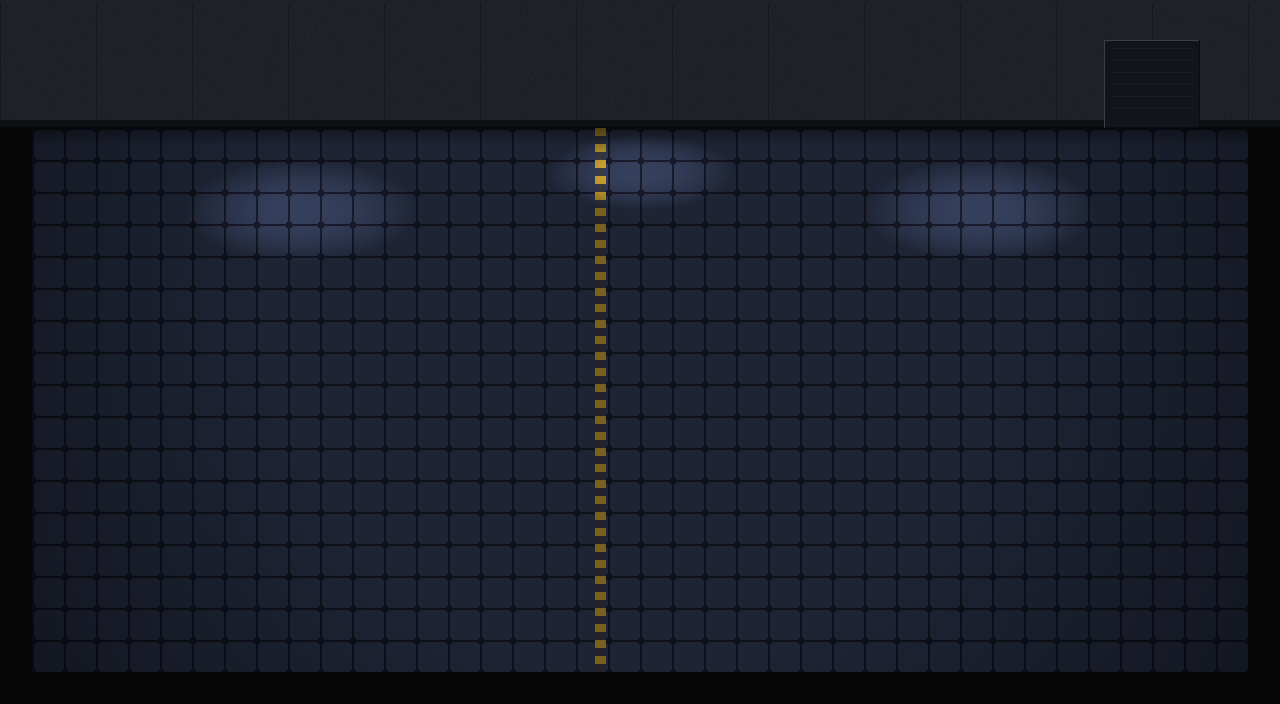
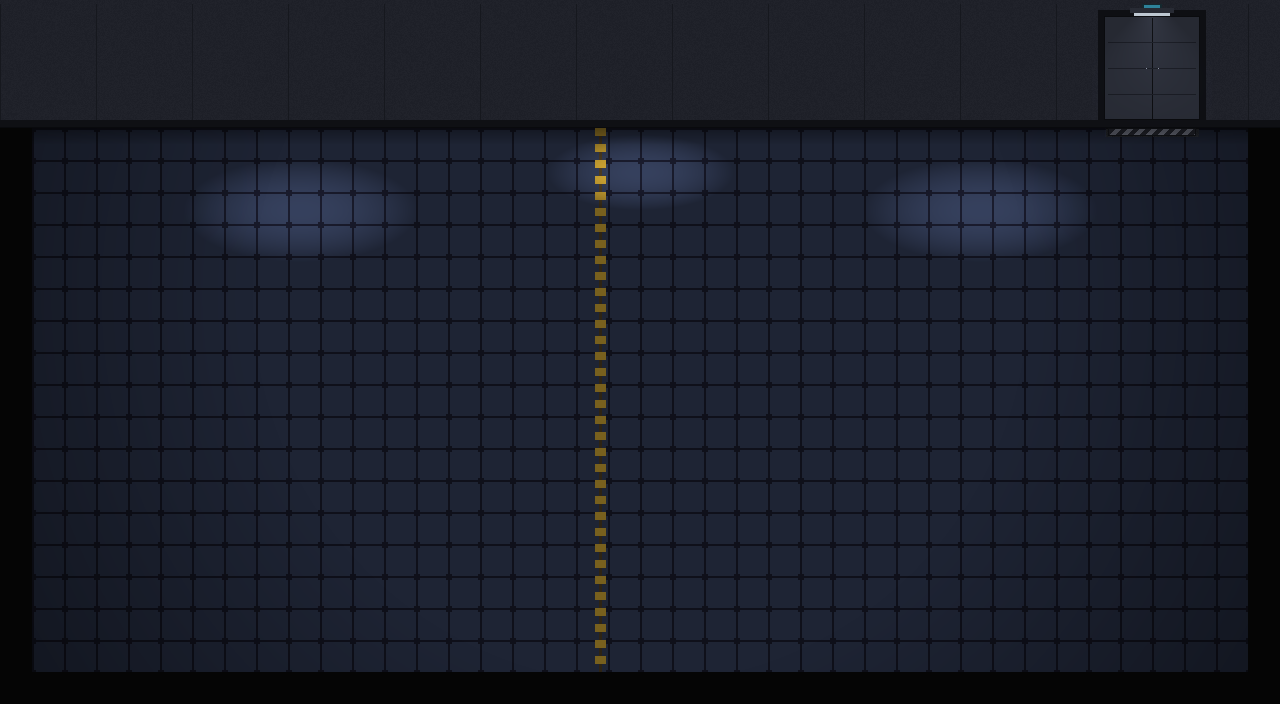
Espolio de boss, props de pack nas salas finais e a porta padrao no treinamento
Chip de cache como espolio do boss de capitulo. BattleScene ganha
config.reward — o id do item que a vitoria entrega. Default "cache", entao
o ENIAC larga um chip; a dupla de sentinelas passa reward: null, porque e
arena de treino e nao guardiao de andar. Qualquer boss futuro herda o
comportamento so por usar o config padrao.

dropReward poe o item no inventario e ANUNCIA na tela (+ CACHE) antes de
voltar para a sala: item que o jogador nao ve cair e item que ele nunca
usa. O Cosmo tambem comenta no dialogo de vitoria, dizendo que so o
guardiao de cada andar carrega um — a escassez precisa parecer regra, nao
bug. O balanceamento e esse: e a peca mais forte do jogo (+1 reprogramacao
por embate), entao o limite e quantos existem, nao o que ela faz.

Ressalva anotada no AGENTS.md: o drop dispara a cada vitoria, e o save e
o do Resident Evil — carregar um save anterior ao boss e vencer de novo
rende outro chip. Fechar isso exige marcar o boss no perfil monotonico (o
mesmo lugar das tentativas, que o load nunca reverte), nao no save; com um
boss por capitulo, nao paga a complexidade ainda.

Props das duas ultimas salas. Seguranca e corredor eram as unicas que
ainda usavam os caixotes e barris procedurais anteriores aos packs.
Trocados pelos props do Post Apoc, os mesmos do porao: na seguranca,
prateleira, armarios e placa de perigo na parede da esquerda, cilindros de
gas ladeando a porta e bancada/barris/caixotes pelo chao, com o centro
[…]

Changed region(s): [[0.8438, 0.0, 0.9375, 0.1875]]

diff --git a/client/scenes/chapter1/BattleScene.js b/client/scenes/chapter1/BattleScene.js
@@ -4,6 +4,8 @@ import BattleMenu from "../../ui/BattleMenu";
 import BlockProgrammingConsole from "../../ui/BlockProgrammingConsole";
 import projetilUrl from "../../assets/sprites/projetil/projetil.png";
 import { MAX_HP, getHp, setHp, fullHeal } from "../../state/vitals";
+import { addItem } from "../../state/inventory";
+import { itemDef } from "../../data/items";
 import fxLightningUrl from "../../assets/sprites/effects/fx_lightning.png";
 import fxWarpUrl from "../../assets/sprites/effects/fx_warp.png";
 import fxExplosionUrl from "../../assets/sprites/effects/fx_explosion.png";
@@ -168,6 +170,12 @@ const DEFAULT_CONFIG = {
     projectileSpeed: PROJECTILE_SPEED,
     bossTint: null,
     analysisLine: "ENIAC — UNIDADE DE CUSTÓDIA, 1946.",
+    // Espólio da vitória (id do catálogo de itens) ou null. Só o BOSS FINAL de
+    // cada capítulo larga alguma coisa: o chip de CACHE, que libera uma
+    // reprogramação extra por embate. É a peça mais forte do jogo, então a
+    // escassez é o balanceamento — um por capítulo, e ponto. Arena de treino e
+    // demais embates passam `reward: null`.
+    reward: "cache",
     // Padrão do bullet hell: "rain" (chuva vertical, ENIAC) ou "sweep"
     // (varredura lateral em fileiras com brecha, sentinela).
     dodgePattern: "rain",
@@ -1288,9 +1296,40 @@ export default class BattleScene extends Phaser.Scene {
         this.cameras.main.shake(600, 0.006);
         this.setBattleStatus(`> ${this.config.name} OFFLINE`, "#51e36b");
 
-        this.time.delayedCall(1800, () => {
+        const dropped = this.dropReward();
+
+        this.time.delayedCall(dropped ? 2800 : 1800, () => {
             this.scene.stop();
             this.scene.resume(this.config.returnScene, { victory: true });
         });
+    }
+
+    // Espólio do boss: entra no inventário e é ANUNCIADO na tela — item que o
+    // jogador não vê cair é item que ele nunca usa. Devolve se houve drop, para
+    // a vitória segurar mais um pouco antes de voltar para a sala.
+    dropReward() {
+        const item = itemDef(this.config.reward);
+        if (!item) {
+            return false;
+        }
+
+        addItem(item.id, 1);
+
+        const label = this.add.text(WIDTH / 2, HEIGHT / 2, `+ ${item.name.toUpperCase()}`, {
+            fontFamily: "VCR",
+            fontSize: "30px",
+            color: "#ffb347"
+        }).setOrigin(0.5).setDepth(1000).setAlpha(0);
+
+        this.tweens.add({
+            targets: label,
+            alpha: 1,
+            y: HEIGHT / 2 - 26,
+            delay: 900,
+            duration: 500,
+            ease: "Sine.easeOut"
+        });
+
+        return true;
     }
 }

diff --git a/client/scenes/chapter1/SalaSegurancaScene.js b/client/scenes/chapter1/SalaSegurancaScene.js
@@ -23,6 +23,8 @@ const ENTRY_SCRIPT = [
 
 const VICTORY_SCRIPT = [
     { speaker: "ENIAC", color: ENIAC_COLOR, text: "CUSTÓDIA... ENCERRADA... ......" },
+    { speaker: "COSMO", text: "Puxei um chip de cache do núcleo dele. Guarde bem: com ele você reprograma uma vez a mais dentro de um embate." },
+    { speaker: "COSMO", text: "Só o guardião de cada andar carrega um desses. Não conte com o segundo tão cedo." },
     { speaker: "COSMO", text: "Caminho livre. Espera... com o ENIAC fora, o bloqueio de sinal caiu — estou recebendo algo—" }
 ];
 

diff --git a/client/scenes/chapter1/SentinelaScene.js b/client/scenes/chapter1/SentinelaScene.js
@@ -39,6 +39,7 @@ const BATTLE_CONFIG = {
     projectileInterval: 300,
     projectileSpeed: { min: 150, max: 210 },
     analysisLine: "DUPLA DE SENTINELAS — UNIDADES DE TREINO DA ELYSIUM.",
+    reward: null,                    // chip de cache é espólio de BOSS FINAL; aqui é treino.
     combatants: [
         { key: "sentTeal", walkUrl: tealWalk, disabledUrl: tealDisabled, x: WIDTH / 2 - 95, y: 150, scale: 2.6 },
         { key: "sentViolet", walkUrl: violetWalk, disabledUrl: violetDisabled, x: WIDTH / 2 + 95, y: 150, scale: 2.6 }

diff --git a/client/data/items.js b/client/data/items.js
@@ -94,7 +94,7 @@ export const ITEMS = {
         name: "Cache",
         icon: "cache",
         category: "reprogramacao",
-        description: "Memória de acesso rápido que alivia a sobrecarga: libera MAIS UMA reprogramação neste embate.",
+        description: "Memória de acesso rápido que alivia a sobrecarga: libera MAIS UMA reprogramação neste embate. Só cai do guardião de cada andar.",
         battleEffect: "maisUmaReprogramacao",
         usableInBattle: true,
         usableInRoom: false,

diff --git a/tools/treinamento_bg.py b/tools/treinamento_bg.py
@@ -7,6 +7,13 @@ piso de tile do pack e as marcações de campo de tiro.
 A parede usa a mesma fórmula das outras salas (ver tools/porao_parede.lua) e o
 piso o mesmo tile e tom (ver tools/piso_tile.py), para a sala não destoar.
 
+A PORTA não é desenhada aqui: ela é CARIMBADA a partir de controle_bg.png. A
+porta padrão do capítulo (batente recuado, duas folhas, placa acesa e o tapete
+listrado no piso) foi desenhada no Aseprite e não tem gerador versionado, então
+copiar a arte existente é o único jeito de a sala não ficar com uma porta
+diferente das outras — foi exatamente o que aconteceu na primeira versão, que
+desenhava um portão de ripas por conta própria.
+
 Uso (o caminho do pack é local de cada dev):
     python tools/treinamento_bg.py --tiles "<pack>/tileset x2.png"
 """
@@ -33,8 +40,22 @@ SEED = 21
 POOLS = [(300, 210, 118, 52), (640, 172, 94, 38), (980, 210, 118, 52)]
 
 # Porta no fundo, à direita — combina com o fluxo da sala (o jogador entra pela
-# esquerda, atravessa a barreira e sai lá).
-DOOR = (1104, 40, 96, 88)
+# esquerda, atravessa a barreira e sai lá). DOOR_X é o centro, e tem que bater
+# com o `door.x` da TreinamentoScene.
+DOOR_X = 1152
+
+# Recorte da porta padrão em controle_bg.png. A parede (0..WALL_H) é copiada
+# inteira: os dois fundos têm a mesma fórmula e o mesmo tom, então não há
+# emenda visível. O tapete listrado vem à parte porque cai no PISO, que é
+# diferente em cada sala.
+DOOR_SRC_X = 640                       # centro da porta no fundo de origem
+DOOR_PLATE = (612, 0, 668, 10)         # placa acesa e o letreiro, acima do batente
+DOOR_BAND = (580, 10, 700, WALL_H)     # batente, folhas e a parede em volta
+DOOR_MAT = (593, 128, 687, 137)        # tapete listrado, já no piso
+
+# A faixa de cima é estreita de propósito: na sala de origem passa uma linha de
+# painel em x=672, e ela cairia FORA da grade de 96px daqui — um risco vertical
+# solto ao lado da porta. Recortando só a placa, a grade da sala continua a dela.
 
 # Faixas de perigo pintadas no chão, marcando a linha da barreira de laser
 # (LASER_X = 600 na cena) e a zona de tiro.
@@ -48,6 +69,10 @@ def clamp(v, lo=0, hi=255):
 def main():
     ap = argparse.ArgumentParser()
     ap.add_argument("--tiles", required=True)
+    ap.add_argument("--porta", default=os.path.join(
+        os.path.dirname(os.path.abspath(__file__)),
+        "..", "client", "assets", "images", "controle", "controle_bg.png"),
+        help="fundo de onde a porta padrão é copiada")
     ap.add_argument("--out", default=os.path.join(
         os.path.dirname(os.path.abspath(__file__)),
         "..", "client", "assets", "images", "treinamento", "treinamento_bg.png"))
@@ -95,22 +120,7 @@ def main():
                 if 0 <= y + j < fy + fh:
                     px[LASER_X + dx, y + j] = (120, 96, 30, 255)
 
-    # 4) Porta desenhada na parede.
-    dx0, dy0, dw, dh = DOOR
-    for y in range(dy0, dy0 + dh):
-        for x in range(dx0, dx0 + dw):
-            px[x, y] = (18, 20, 26, 255)
-    for x in range(dx0, dx0 + dw):
-        px[x, dy0] = (58, 62, 76, 255)
-        px[x, dy0 + dh - 1] = (10, 11, 14, 255)
-    for y in range(dy0, dy0 + dh):
-        px[dx0, y] = (58, 62, 76, 255)
-        px[dx0 + dw - 1, y] = (10, 11, 14, 255)
-    for y in range(dy0 + 8, dy0 + dh - 8, 12):      # ripas da porta
-        for x in range(dx0 + 6, dx0 + dw - 6):
-            px[x, y] = (26, 28, 36, 255)
-
-    # 5) Luz: sombra da parede, poças das luminárias e vinheta.
+    # 4) Luz: sombra da parede, poças das luminárias e vinheta.
     def light(x, y, f):
         if not (fx <= x < fx + fw and fy <= y < fy + fh):
             return
@@ -135,6 +145,22 @@ def main():
         for x in range(fx, fx + fw):
             d = math.hypot(x - vcx, y - vcy) / maxd
             light(x, y, 1 - 0.35 * max(0.0, min(1.0, (d - 0.55) / 0.45)))
+
+    # 5) Porta padrão, carimbada de controle_bg.png. Vai por ÚLTIMO porque o
+    # recorte já traz a própria iluminação: passar a vinheta por cima
+    # escureceria o tapete e denunciaria o remendo.
+    porta = Image.open(args.porta).convert("RGB")
+    pp = porta.load()
+
+    def stamp(rect):
+        x0, y0, x1, y1 = rect
+        for y in range(y0, y1):
+            for x in range(x0, x1):
+                px[x - DOOR_SRC_X + DOOR_X, y] = pp[x, y] + (255,)
+
+    stamp(DOOR_PLATE)
+    stamp(DOOR_BAND)
+    stamp(DOOR_MAT)
 
     os.makedirs(os.path.dirname(os.path.abspath(args.out)), exist_ok=True)
     im.save(args.out)

diff --git a/AGENTS.md b/AGENTS.md
@@ -22,7 +22,7 @@ Monorepo com dois pacotes independentes (não há `package.json` na raiz):
   - `IntroScene` (`"intro-scene"`) — cena de abertura no porão; diálogo com efeito máquina de escrever; a androide acorda e segue para o capítulo 1.
   - `SpritTestScene` (`"sprit-test-scene"`) — sala de teste jogável (WASD; ESC volta ao menu), usada como sandbox de dev.
   - `PauseMenuScene` (`"pause-menu"`) — overlay de ESC (continuar / configurações / sair, com aviso de progresso não salvo). Aberta pelo `BaseRoomScene` via `launch` + `pause`; só enquanto o jogador anda (`canPause()` barra durante diálogo, console e transição).
-  - `scenes/chapter1/` — capítulo 1 (variáveis; porão → saguão): `PoraoScene` (int), `SalaArquivosScene` (`"cap1-arquivos"` — tematizada como SALA DE SERVIDORES (props via `tools/servidores.py`, feixe de laser do pack); é o TUTORIAL da reprogramação remota `[R]`: uma unidade de segurança (biped parado, guardião, só faz o slam) fica atrás de uma barreira de laser IMPASSÁVEL (parede sólida só contra a Artemis, do teto ao piso); o jogador não alcança para golpear, então usa `[R]` para desviar das bolas de energia e reprogramar à distância; ao ser desligado, o robô revela o nome dela ("Artemis... você nos traiu"), a barreira cai e a porta abre — é também onde entra a ideia de variável (`nome = "Artemis"`)), `SalaControleScene` (string/float), `TreinamentoScene` (`"cap1-treinamento"` — barreira de laser cíclica (painel `lasers = false`) + INIMIGOS; porta abre com a barreira desligada e todos os robôs desativados; cenário procedural até a arte ficar pronta), `SentinelaScene` (`"cap1-sentinela"` — arena pré-boss: uma DUPLA de sentinelas (recolor do biped por rotação de matiz — teal + violeta, não-vermelhas; ver `tools/biped_recolor.py`) que lutam JUNTAS numa só `BattleScene` (config `combatants`, HP combinado → mais difícil); o turno delas cicla 3 padrões de bullet hell (`spiral`/`splitBounce`/`touhouCross`); reaproveita o mapa da sala de arquivos como cenário), `SalaSegurancaScene` (antessala do boss: `[E]` no núcleo abre a batalha), `BattleScene` (`"cap1-batalha"` — combate por turnos estilo Undertale: ATACAR causa dano igual à variável `forca`, REPROGRAMAR cria/dobra a `forca` no console de blocos (limitado a `config.maxReprograms` — default 2 no cap. 1, cresce nos próximos — por embate: o núcleo da Artemis sobrecarrega e trava, evitando o snowball da força dobrando; `[ESC]` antes de montar a instrução volta ao menu de ações **sem** gastar o turno), ANALISAR descreve o boss; o turno do inimigo é bullet hell na caixa com WASD (dominante) e, OCASIONALMENTE, uma sequência de defesa em blocos com tempo limite (`DEFENSE_CHANCE`; nunca no 1º turno nem duas seguidas); aberta via `scene.launch("cap1-batalha", { config })` + `pause` — o `config` parametriza nome, `maxHp`, `returnScene`, defesa on/off, projéteis e o(s) padrão(ões) de bullet hell (`dodgePattern` único ou `dodgePatterns[]` que CICLA a cada turno: `"rain"` chuva vertical do ENIAC, `"sweep"` varredura lateral com brecha, `"spiral"` orbe central girando e cuspindo balas, `"splitBounce"` bolas grandes que quicam e se dividem a cada quicada, `"touhouCross"` cruz de balas em volta da alma com aberturas nas diagonais, `"lightning"` colunas telegrafadas que caem como relâmpagos (zona de dano vertical, desvio horizontal), `"warpMines"` portais sci-fi que se abrem e EXPLODEM em zonas de dano circulares, `"nova"` o núcleo carrega e dispara um anel de balas com uma abertura giratória (linha-guia verde marca o corredor seguro) — os três últimos usam os efeitos do Super Pixel Effects Gigapack (ver docs/ASSETS.md) e o ENIAC (boss final) CICLA `["rain","lightning","warpMines","nova"]`; `"lightning"`/`"warpMines"` são ZONAS de perigo (não projéteis físicos): telegrafo → `hazards[]` ativo por um instante, checado em `updateHazards`); `config.combatants[]` (`{ key, walkUrl, disabledUrl, x, y, scale }`) troca o boss único do ENIAC por VÁRIOS sprites no topo com HP combinado (a dupla de sentinelas) — e devolve com `scene.resume(returnScene, { victory: true })`), `ReprogramScene` (`"cap1-reprograma"` — batalha de reprogramação de um inimigo: telinha "HACKING EFETUADO", depois o robô revida com um ataque de ESQUIVA estilo Undertale (`DodgeBox`, WASD; cada acerto tira HP), então o jogador monta com tempo a instrução que o desliga, erro/tempo esgotado = nova esquiva; `config.stages` (default 1) define quantas CAMADAS o robô aguenta — cada acerto quebra uma (com barra de integridade do núcleo; o HP do jogador é o GLOBAL do `state/vitals`, sem escala por estágio) e só a última desativa (o biped-guardião da `SalaArquivosScene` usa 3); aberta pelo modo `[R]` da sala via `launch` + `pause`, devolve com `scene.resume(returnScene, { enemyReprogram: { index, disabled } })`), `CorredorScene` (transmissão da Lua) e `SaguaoScene` (cutscene final). Todas estendem `BaseRoomScene`, exceto a `SaguaoScene`, a `BattleScene` e a `ReprogramScene`. Chaves de cena: `"cap1-*"`.
+  - `scenes/chapter1/` — capítulo 1 (variáveis; porão → saguão): `PoraoScene` (int), `SalaArquivosScene` (`"cap1-arquivos"` — tematizada como SALA DE SERVIDORES (props via `tools/servidores.py`, feixe de laser do pack); é o TUTORIAL da reprogramação remota `[R]`: uma unidade de segurança (biped parado, guardião, só faz o slam) fica atrás de uma barreira de laser IMPASSÁVEL (parede sólida só contra a Artemis, do teto ao piso); o jogador não alcança para golpear, então usa `[R]` para desviar das bolas de energia e reprogramar à distância; ao ser desligado, o robô revela o nome dela ("Artemis... você nos traiu"), a barreira cai e a porta abre — é também onde entra a ideia de variável (`nome = "Artemis"`)), `SalaControleScene` (string/float), `TreinamentoScene` (`"cap1-treinamento"` — barreira de laser cíclica (painel `lasers = false`) + INIMIGOS; porta abre com a barreira desligada e todos os robôs desativados; cenário por `tools/treinamento_bg.py` + props no Tiled), `SentinelaScene` (`"cap1-sentinela"` — arena pré-boss: uma DUPLA de sentinelas (recolor do biped por rotação de matiz — teal + violeta, não-vermelhas; ver `tools/biped_recolor.py`) que lutam JUNTAS numa só `BattleScene` (config `combatants`, HP combinado → mais difícil); o turno delas cicla 3 padrões de bullet hell (`spiral`/`splitBounce`/`touhouCross`); reaproveita o mapa da sala de arquivos como cenário), `SalaSegurancaScene` (antessala do boss: `[E]` no núcleo abre a batalha), `BattleScene` (`"cap1-batalha"` — combate por turnos estilo Undertale: ATACAR causa dano igual à variável `forca`, REPROGRAMAR cria/dobra a `forca` no console de blocos (limitado a `config.maxReprograms` — default 2 no cap. 1, cresce nos próximos — por embate: o núcleo da Artemis sobrecarrega e trava, evitando o snowball da força dobrando; `[ESC]` antes de montar a instrução volta ao menu de ações **sem** gastar o turno), ANALISAR descreve o boss; o turno do inimigo é bullet hell na caixa com WASD (dominante) e, OCASIONALMENTE, uma sequência de defesa em blocos com tempo limite (`DEFENSE_CHANCE`; nunca no 1º turno nem duas seguidas); aberta via `scene.launch("cap1-batalha", { config })` + `pause` — o `config` parametriza nome, `maxHp`, `returnScene`, defesa on/off, projéteis e o(s) padrão(ões) de bullet hell (`dodgePattern` único ou `dodgePatterns[]` que CICLA a cada turno: `"rain"` chuva vertical do ENIAC, `"sweep"` varredura lateral com brecha, `"spiral"` orbe central girando e cuspindo balas, `"splitBounce"` bolas grandes que quicam e se dividem a cada quicada, `"touhouCross"` cruz de balas em volta da alma com aberturas nas diagonais, `"lightning"` colunas telegrafadas que caem como relâmpagos (zona de dano vertical, desvio horizontal), `"warpMines"` portais sci-fi que se abrem e EXPLODEM em zonas de dano circulares, `"nova"` o núcleo carrega e dispara um anel de balas com uma abertura giratória (linha-guia verde marca o corredor seguro) — os três últimos usam os efeitos do Super Pixel Effects Gigapack (ver docs/ASSETS.md) e o ENIAC (boss final) CICLA `["rain","lightning","warpMines","nova"]`; `"lightning"`/`"warpMines"` são ZONAS de perigo (não projéteis físicos): telegrafo → `hazards[]` ativo por um instante, checado em `updateHazards`); `config.combatants[]` (`{ key, walkUrl, disabledUrl, x, y, scale }`) troca o boss único do ENIAC por VÁRIOS sprites no topo com HP combinado (a dupla de sentinelas); `config.reward` é o ESPÓLIO da vitória (id do catálogo de itens, default `"cache"`) — ver "Espólio de boss" abaixo — e devolve com `scene.resume(returnScene, { victory: true })`), `ReprogramScene` (`"cap1-reprograma"` — batalha de reprogramação de um inimigo: telinha "HACKING EFETUADO", depois o robô revida com um ataque de ESQUIVA estilo Undertale (`DodgeBox`, WASD; cada acerto tira HP), então o jogador monta com tempo a instrução que o desliga, erro/tempo esgotado = nova esquiva; `config.stages` (default 1) define quantas CAMADAS o robô aguenta — cada acerto quebra uma (com barra de integridade do núcleo; o HP do jogador é o GLOBAL do `state/vitals`, sem escala por estágio) e só a última desativa (o biped-guardião da `SalaArquivosScene` usa 3); aberta pelo modo `[R]` da sala via `launch` + `pause`, devolve com `scene.resume(returnScene, { enemyReprogram: { index, disabled } })`), `CorredorScene` (transmissão da Lua) e `SaguaoScene` (cutscene final). Todas estendem `BaseRoomScene`, exceto a `SaguaoScene`, a `BattleScene` e a `ReprogramScene`. Chaves de cena: `"cap1-*"`.
 - `ui/` — consoles de puzzle e `DialogueBox` (diálogo reutilizável com máquina de escrever):
   - `ProgrammingConsole` — puzzle de variável por **texto**: o jogador digita `nome = valor`; valida nome, tipo e valor (int/float/string/boolean).
   - `BlockProgrammingConsole` — mesmo puzzle em **blocos**: o jogador arrasta blocos para encaixes em sequência (`[variável] [=] [valor]`), no estilo dos cards do menu (`GameScene`). Deriva a solução do mesmo objeto `puzzle`; blocos extras (distratores) vêm em `puzzle.blockDistractors = { nome[], op[], valor[] }`. Sequências customizadas (ex. `forca = forca * 2`, 5 encaixes) vêm em `puzzle.blockSequence = [{ category, label }]`; `options.singleAttempt: true` congela e fecha no primeiro erro (modo combate — errar consome o turno); `options.timeLimitMs` adiciona contagem regressiva (estourar o tempo = falha). `options.onCancel` distingue **cancelar** de **tentar**: sair pelo `[ESC]` ANTES de submeter uma tentativa (tabuleiro cheio avaliado ou tempo esgotado) chama `onCancel` em vez de `onClose` e NÃO conta como tentativa — na batalha, o REPROGRAMAR usa isso para voltar ao menu de ações sem perder o turno. Convenção de texto: o `briefing` descreve só o OBJETIVO (diegético, sem a estrutura `nome = valor`); a estrutura sai no botão **[DICA]** (mostra `puzzle.hint` na voz do Cosmo, sob demanda). Chame `BlockProgrammingConsole.preload(scene)` no `preload` da cena (carrega o sheet `assets/sprites/blocks/`).
@@ -66,8 +66,8 @@ Monorepo com dois pacotes independentes (não há `package.json` na raiz):
   Espelha só no `localStorage` (`reprogrammed.inventory`), **desacoplado do save do servidor por
   ora** (dá pra integrar depois — lembrando: itens de save são reversíveis, mas upgrades
   permanentes talvez pertençam ao perfil monotônico). `data/items.js` é o catálogo (categorias
-  `cura`/`reprogramacao`/`upgrade`/`chave`); os itens são molde e o inventário começa VAZIO (a
-  coleta no mundo — `addItem` — ainda será implementada). Abre pela `InventoryScene` (`"inventory"`):
+  `cura`/`reprogramacao`/`upgrade`/`chave`); o inventário começa VAZIO e a única fonte de item
+  hoje é o **espólio de boss** (ver abaixo) — a coleta avulsa no mundo ainda será implementada. Abre pela `InventoryScene` (`"inventory"`):
   tecla `[I]` nas salas e ação **ITENS** na `BattleScene`, ambas via `launch` + `pause`. Layout em
   DUAS ABAS na paleta AZUL-CIANO do jogo: **INVENTÁRIO** (itens usáveis; grade de slots + cursor de
   seleção ANIMADO no item escolhido; coluna de ações USAR/DESCARTAR/FECHAR — USAR chama
@@ -75,7 +75,20 @@ Monorepo com dois pacotes independentes (não há `package.json` na raiz):
   turno) e **MELHORIAS** (upgrades permanentes — os itens de categoria `upgrade`, as melhorias fixas
   que a Artemis ganha nas fases). Slots (azul/ciano) e a animação de seleção vêm do Complete UI
   Essential Pack (Crusenho, CC BY 4.0, ver docs/ASSETS.md); painel/abas/botões são desenhados no
-  código e os ícones de item são procedurais por categoria (placeholder).
+  código e os ícones de item são PNGs de 32×32 em `assets/sprites/itens/` (campo `icon` do
+  catálogo), exibidos em 2x — sem ícone, o desenho procedural por categoria entra como reserva.
+
+  **Espólio de boss.** `config.reward` da `BattleScene` é o id do item que a vitória entrega
+  (`dropReward`: entra no inventário e é anunciado na tela — item que o jogador não vê cair é
+  item que ele nunca usa). O default é `"cache"`, o chip que libera **uma reprogramação a mais
+  por embate**: como é a peça mais forte do jogo, o balanceamento é a ESCASSEZ — só o boss
+  final de cada capítulo larga um. Todo embate que não seja boss de capítulo passa
+  `reward: null` (é o caso da dupla de sentinelas, que é arena de treino).
+
+  > Ressalva conhecida: o drop acontece a cada vitória, e o modelo de save é o do Resident
+  > Evil — quem carregar um save anterior ao boss e vencer de novo ganha outro chip. Fechar
+  > isso exige marcar o boss como derrotado no perfil monotônico (o mesmo lugar das
+  > tentativas), não no save; enquanto o capítulo 1 tem um boss só, não vale a complexidade.
 - `state/audio.js` + `ui/Sfx.js` — **efeitos sonoros** (packs Kenney Interface Sounds e SweetSounds,
   em `assets/audio/*.ogg`; ver docs/ASSETS.md). `Sfx.preload(scene)` no `preload` (já embutido em
   `BlockProgrammingConsole.preload` e `Enemy.preload`) e `Sfx.play(scene, nome, volumeScale?)` no

diff --git a/docs/ASSETS.md b/docs/ASSETS.md
@@ -134,16 +134,23 @@ Sem restrição de licença de terceiros. Sempre com o `.aseprite` fonte version
 - `client/assets/sprites/` — Cosmo, boss do ENIAC, blocos do puzzle, arma e projétil.
 - `client/assets/images/porao/porao_bg.png` — parede, porta, luminárias e emblema Elysium são
   procedurais (só o piso vem de pack).
-- Props procedurais anteriores à troca pelos packs. **Vários continuam em uso** por outras
-  salas — `caixote`, `banco`, `barril`, `mesa`, `palete` e `caixote_grande` aparecem nos mapas
-  do capítulo 1, então não saem sem antes conferir. Hoje estão sem referência em mapa nenhum:
-  `armario`, `caixote_lona`, `dreno`, `prateleira`, `ventilador` e `arquivo` (este último saiu
-  quando a sala de arquivos virou sala de servidores).
+- Props procedurais anteriores à troca pelos packs. Sobraram numa sala só: `caixote`, `banco`,
+  `barril`, `mesa`, `palete` e `caixote_grande` são usados **apenas pela sala de controle**
+  (as últimas duas salas — segurança e corredor — já passaram para os props de pack). Se um
+  dia a sala de controle também trocar, todos viram órfãos de uma vez. Hoje já estão sem
+  referência em mapa nenhum: `armario`, `caixote_lona`, `dreno`, `prateleira`, `ventilador` e
+  `arquivo` (este último saiu quando a sala de arquivos virou sala de servidores).
 - `client/assets/images/arquivos/props/server_*.png` e companhia são gerados por
   `tools/servidores.py`, no mesmo estilo dos packs mas desenhados por script — ver a seção
   seguinte.
 
 ## Arte gerada por script
+
+`tools/treinamento_bg.py` monta o fundo da sala de treinamento (parede, piso do pack e as
+marcações do campo de tiro) e **carimba a porta a partir de `controle_bg.png`**. A porta padrão
+do capítulo foi desenhada no Aseprite e não tem gerador versionado, então copiar a arte é o
+único jeito de a sala não ficar com uma porta diferente das outras — foi exatamente o que
+aconteceu na primeira versão, que desenhava um portão de ripas por conta própria.
 
 `tools/servidores.py` desenha os props de sala de servidor (racks, torre, no-break, bobina,
 painel de rede, ventilador...) por código, em tamanho nativo, e exporta em 2x.
